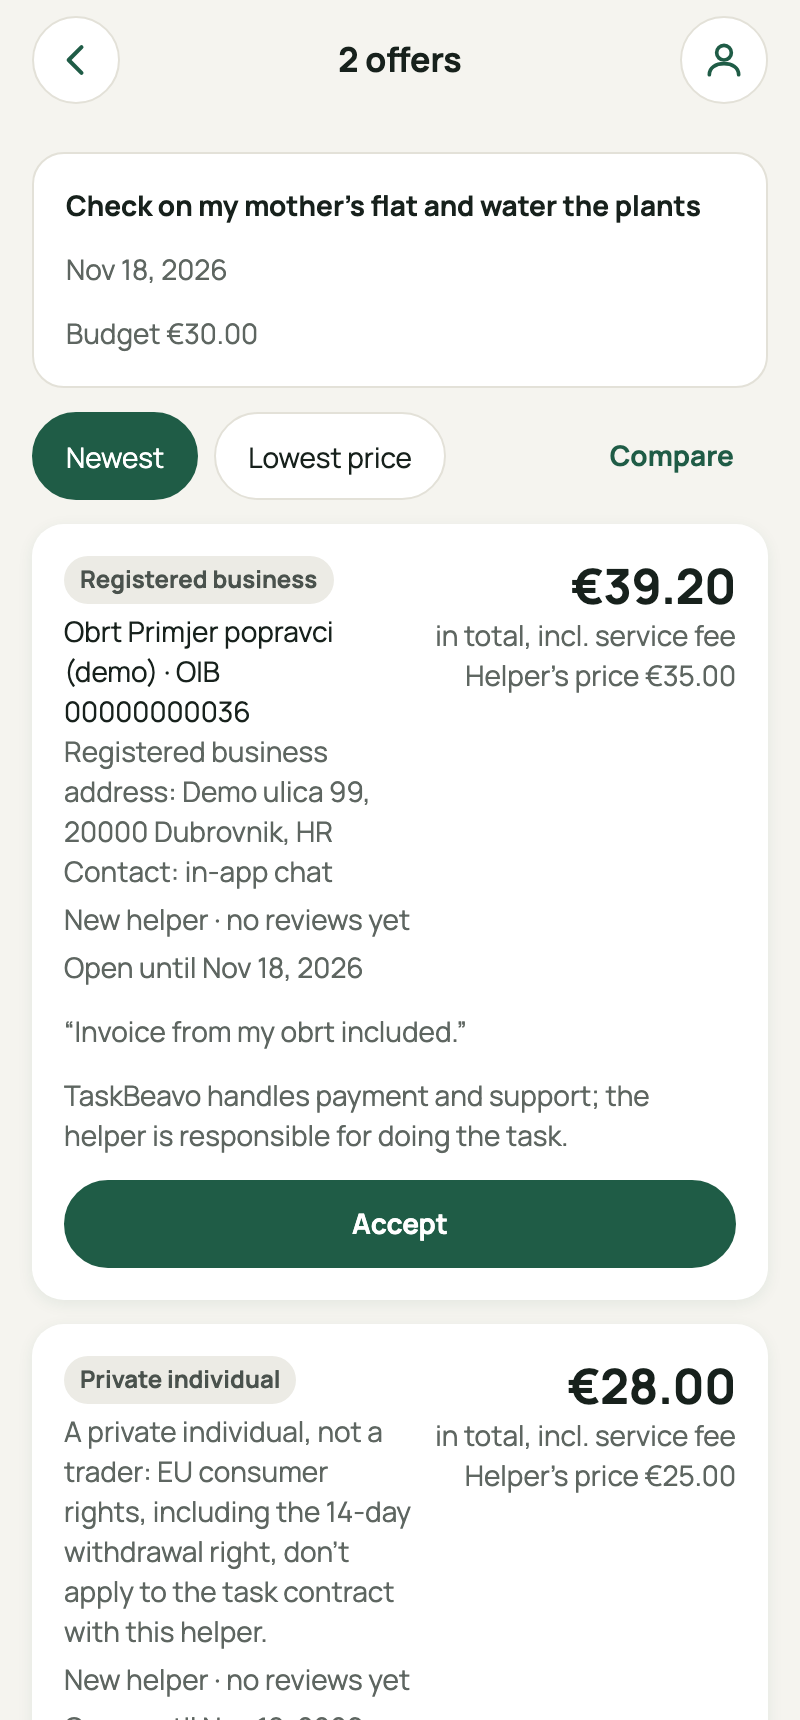
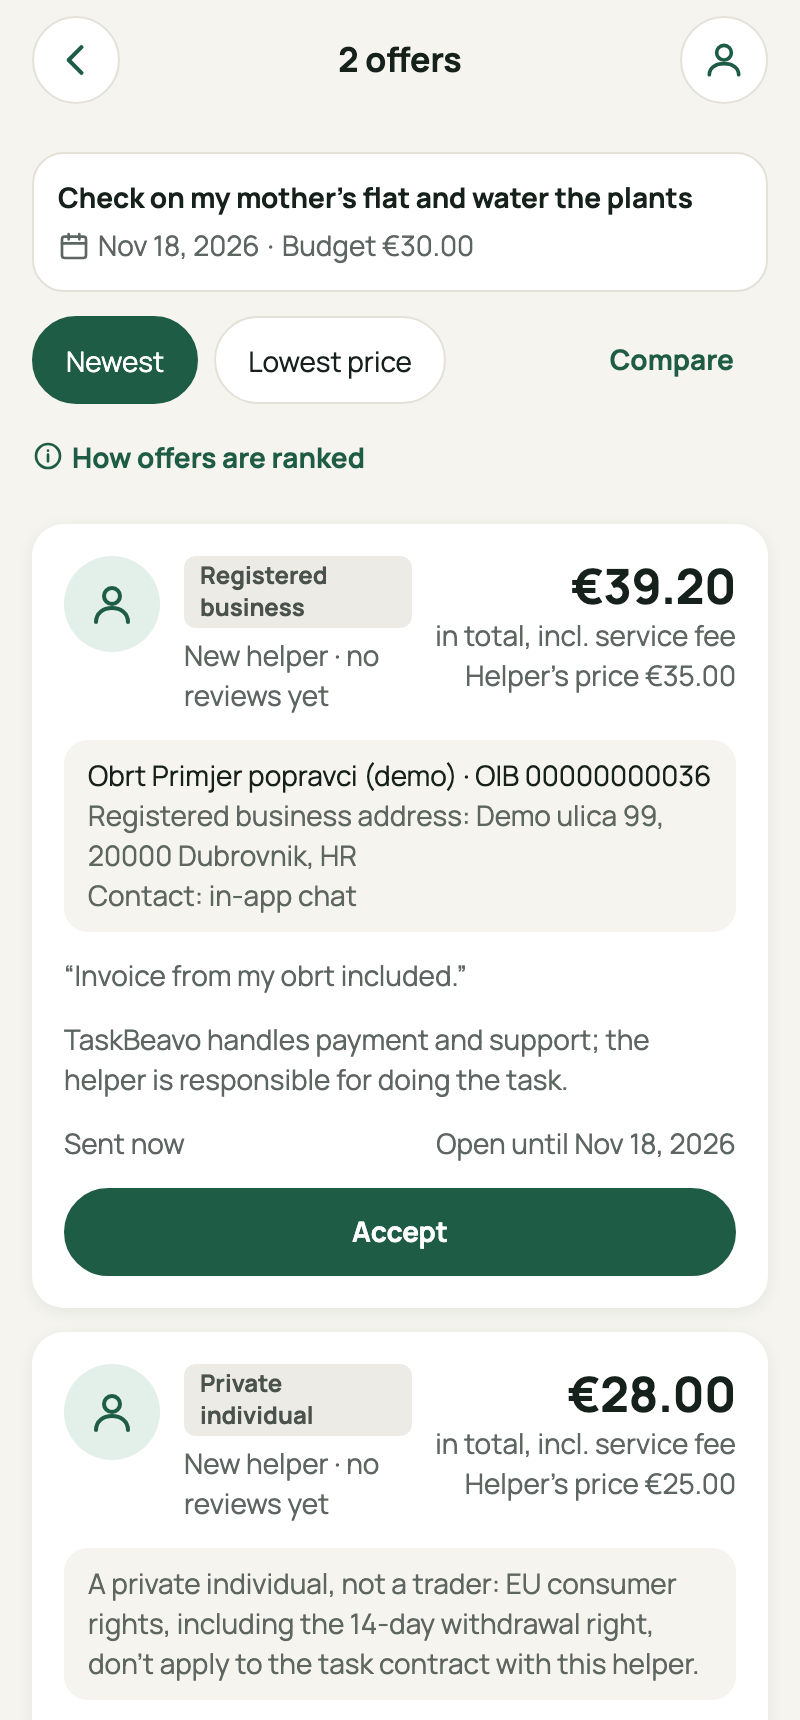
BEAV-210: update the offers and checkout mockups and demo screenshots
Mockup 04 lists what the web now builds and what still waits (helper
names, photos, Verified ID, rating, Chat on cards). Mockup 06 is fixed
to the decisions in code: the "Book and pay" order button with the fee
notice and amount due directly above it, and the demo form's "Confirm
card payment" button. Offers, checkout, consent and demo card
screenshots retaken from a fresh seed_demo --reset at 800 x 1720.

Jira: BEAV-210

Changed region(s): [[0.0312, 0.0924, 0.9375, 0.986], [0.75, 0.2465, 0.9062, 0.2773], [0.75, 0.1849, 0.9062, 0.2157]]

diff --git a/design/mockups/screens/06-checkout.html b/design/mockups/screens/06-checkout.html
@@ -1,6 +1,16 @@
 <!-- Built in apps/mobile (src/screens/checkout-screen.tsx) and apps/web (components/checkout), BEAV-111.
      Two separate, unticked boxes; their wording comes from the CANCELLATION legal document in force,
-     not from these sample sentences. The fee's fiscal receipt is issued at release, not at checkout. -->
+     not from these sample sentences. The fee's fiscal receipt is issued at release, not at checkout.
+     Web aligned with 6a, 6b and 6g in BEAV-210: one booking summary card (avatar, task, helper-type
+     badge, a trader's name, OIB and address, then the amounts), "Payment protected · held via
+     Stripe" under it, and a bar pinned to the bottom of the screen. The avatar is a generic person
+     until helper names and photos are in the API (BEAV-144).
+     Fixed in BEAV-210 to match decisions already in code: the order button reads "Book and pay"
+     (ZZP čl. 74(3); in hr, de and fr the statutory phrase with no amount), and the fee notice and
+     the amount due sit directly above it in the pinned bar (user decision after the fee-consent
+     opinions). The card is chosen on the next step (6g, or Stripe's card form), so the web
+     checkout has no saved-card row, and it keeps 6b's "How your payment works" card where 6a
+     sums up the cancellation policy; the policy itself opens from the links under the boxes. -->
 <div class="screen" id="6a Checkout · consent unticked">{{sb}}
  <div class="top"><span class="ibtn">{{i:back}}</span><span class="t">Checkout</span><span style="width:44px"></span></div>
  <div class="body" style="gap:10px;padding-top:0">
@@ -9,7 +19,6 @@
    <div class="line"><span>Agreed price</span><span>€30.00</span></div>
    <div class="line"><span>Service fee</span><span>€3.60</span></div>
    <div class="hr"></div><div class="line tot"><span>Total</span><span>€33.60</span></div>
-   <span class="c mut">Task price €30.00 (paid to the helper) + TaskBeavo service fee €3.60 (12%, min. €2.50) = total €33.60</span>
   </div>
   <div class="card" style="padding:12px;flex-direction:row;align-items:center">{{i:card:22:#1F5C46}}<span class="s grow" style="font-weight:700">Visa •••• 4242</span><span class="link s">Change</span></div>
   <div class="row c green">{{i:lock:16:#1F5C46}} Payment protected · held via Stripe</div>
@@ -25,7 +34,7 @@
   <div class="row" style="align-items:flex-start;gap:10px"><span class="check"></span><span class="c" style="line-height:17px">I accept the cancellation and refund policy.</span></div>
   <div class="row" style="align-items:flex-start;gap:10px"><span class="check"></span><span class="c" style="line-height:17px">I ask that my booking be arranged now and the task done on the date I chose, which may be within my 14-day withdrawal period. If I withdraw after work has started, I pay only for the part already done.</span></div>
  </div>
- <div class="foot" style="padding-top:4px"><div class="btn dis">Pay €33.60</div></div>
+ <div class="foot" style="padding-top:4px"><span class="c mut">Task price €30.00 (paid to the helper) + TaskBeavo service fee €3.60 (12%, min. €2.50) = total €33.60</span><span class="s" style="font-weight:800">Total to pay: €33.60</span><div class="btn dis">Book and pay €33.60</div></div>
 </div>
 
 <div class="screen" id="6b Checkout · consent ticked">{{sb}}
@@ -48,7 +57,7 @@
   <div class="row" style="align-items:flex-start;gap:10px"><span class="check on">{{i:check:16:#fff:3}}</span><span class="c" style="line-height:17px">I ask that my booking be arranged now and the task done on the date I chose, which may be within my 14-day withdrawal period. If I withdraw after work has started, I pay only for the part already done.</span></div>
   <span class="row c" style="gap:12px"><span class="link">Withdrawal information</span><span class="link">Full cancellation policy</span></span>
  </div>
- <div class="foot" style="padding-top:4px"><div class="btn pri">{{i:lock:18:#fff}} Pay €33.60</div></div>
+ <div class="foot" style="padding-top:4px"><span class="c mut">Task price €30.00 (paid to the helper) + TaskBeavo service fee €3.60 (12%, min. €2.50) = total €33.60</span><span class="s" style="font-weight:800">Total to pay: €33.60</span><div class="btn pri">{{i:lock:18:#fff}} Book and pay €33.60</div></div>
 </div>
 
 <div class="screen" id="6c Payment held · success">{{sb}}
@@ -105,7 +114,6 @@
    <div class="line"><span>Agreed price</span><span>€30.00</span></div>
    <div class="line"><span>Service fee</span><span>€3.60</span></div>
    <div class="hr"></div><div class="line tot"><span>Total</span><span>€33.60</span></div>
-   <span class="c mut">Task price €30.00 (paid to the helper) + TaskBeavo service fee €3.60 (12%, min. €2.50) = total €33.60</span>
   </div>
   <div class="card" style="padding:14px;gap:10px;border:2px dashed #F2A33A">
    <span class="badge b-orange" style="align-self:flex-start">Demo payment, no real money</span>
@@ -118,5 +126,5 @@
   <div class="row" style="align-items:flex-start;gap:10px"><span class="check on"></span><span class="c" style="line-height:17px">I ask that my booking be arranged now and the task done on the date I chose.</span></div>
   <div class="c mut">Checkout stays open 28 more minutes.</div>
  </div>
- <div class="foot"><div class="btn pri">Book and pay €33.60</div></div>
+ <div class="foot"><div class="btn pri">Confirm card payment €33.60</div></div>
 </div>

diff --git a/design/mockups/screens/04-offers.html b/design/mockups/screens/04-offers.html
@@ -3,9 +3,14 @@
   4a's cards (helper's price, total incl. service fee, Private individual / Registered business,
   the business's name, OIB and address, expiry, note, Accept), the withdrawn/expired greyed rows,
   the Newest and Lowest price sorts, 4b's text (the /ranking page, BEAV-191) and 4c's table.
-  Kept here for what isn't built yet: helper names, avatars, Verified ID, distance, languages
-  and the rating (BEAV-144 decides which profile stats may show), Chat on cards, and 4d the
-  accept sheet. Delete each frame once built.
+  Web aligned with 4a in BEAV-210: the compact task summary (title, then date and budget on one
+  line), "How offers are ranked" under the sort chips, a generic person avatar with the
+  helper-type badge and "New helper" beside it, the trader's details in their own tinted box,
+  and the "Sent … · Open until …" footer (display only, never a sort).
+  Kept here for what isn't built yet: helper names, photo avatars, Verified ID, distance,
+  languages and the rating (BEAV-144 decides which profile stats may show), Chat on cards (there
+  is no chat before a booking yet, so web shows Accept alone, never a dead Chat button), and 4d
+  the accept sheet. Delete each frame once built.
   4a shows the all-in total as the big price and the helper's price under it, as built: the
   price a consumer pays comes first (the total-price decision in offers-screen.tsx, BEAV-214).
   Hard rule k: offers are ordered only by Newest or Lowest price. No "Recommended" or
